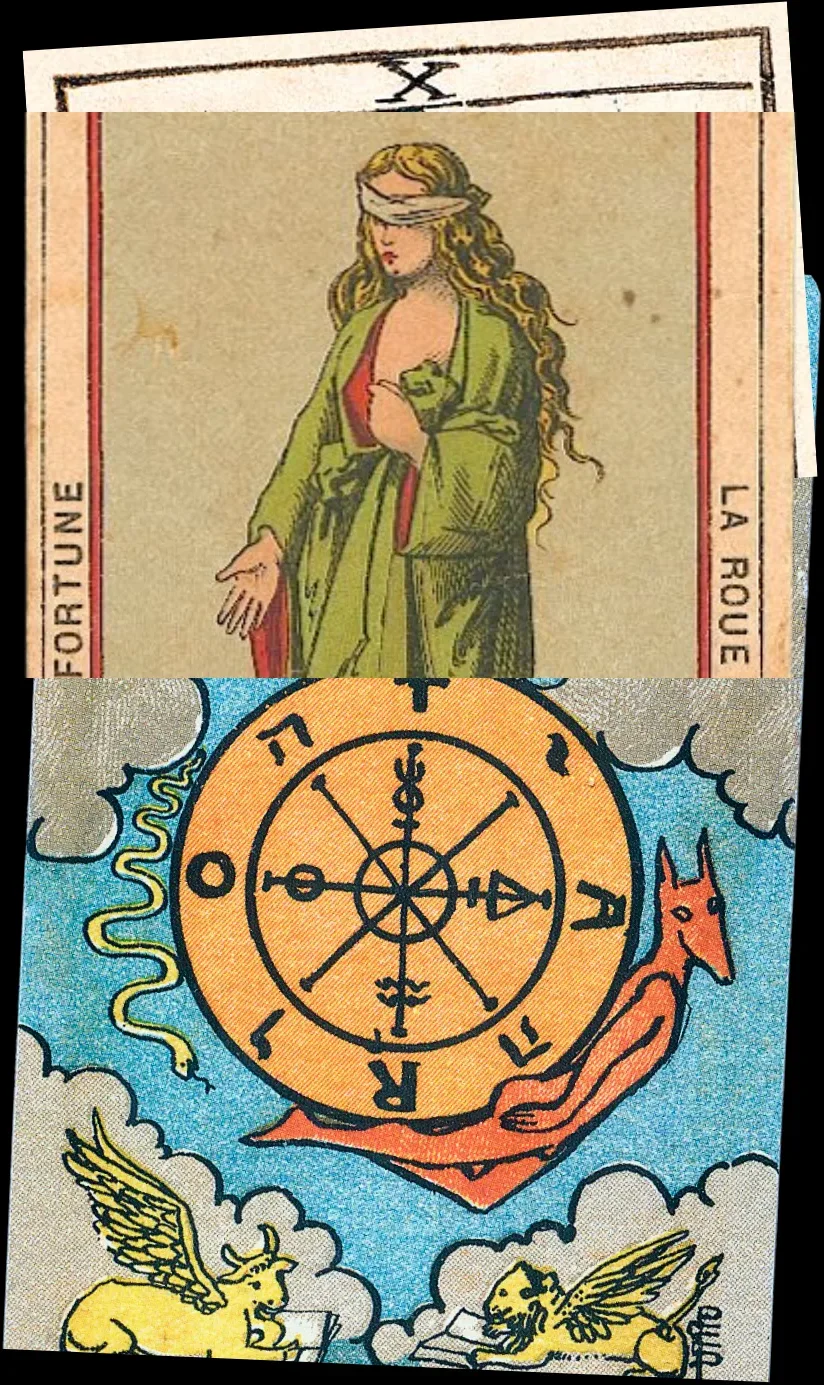
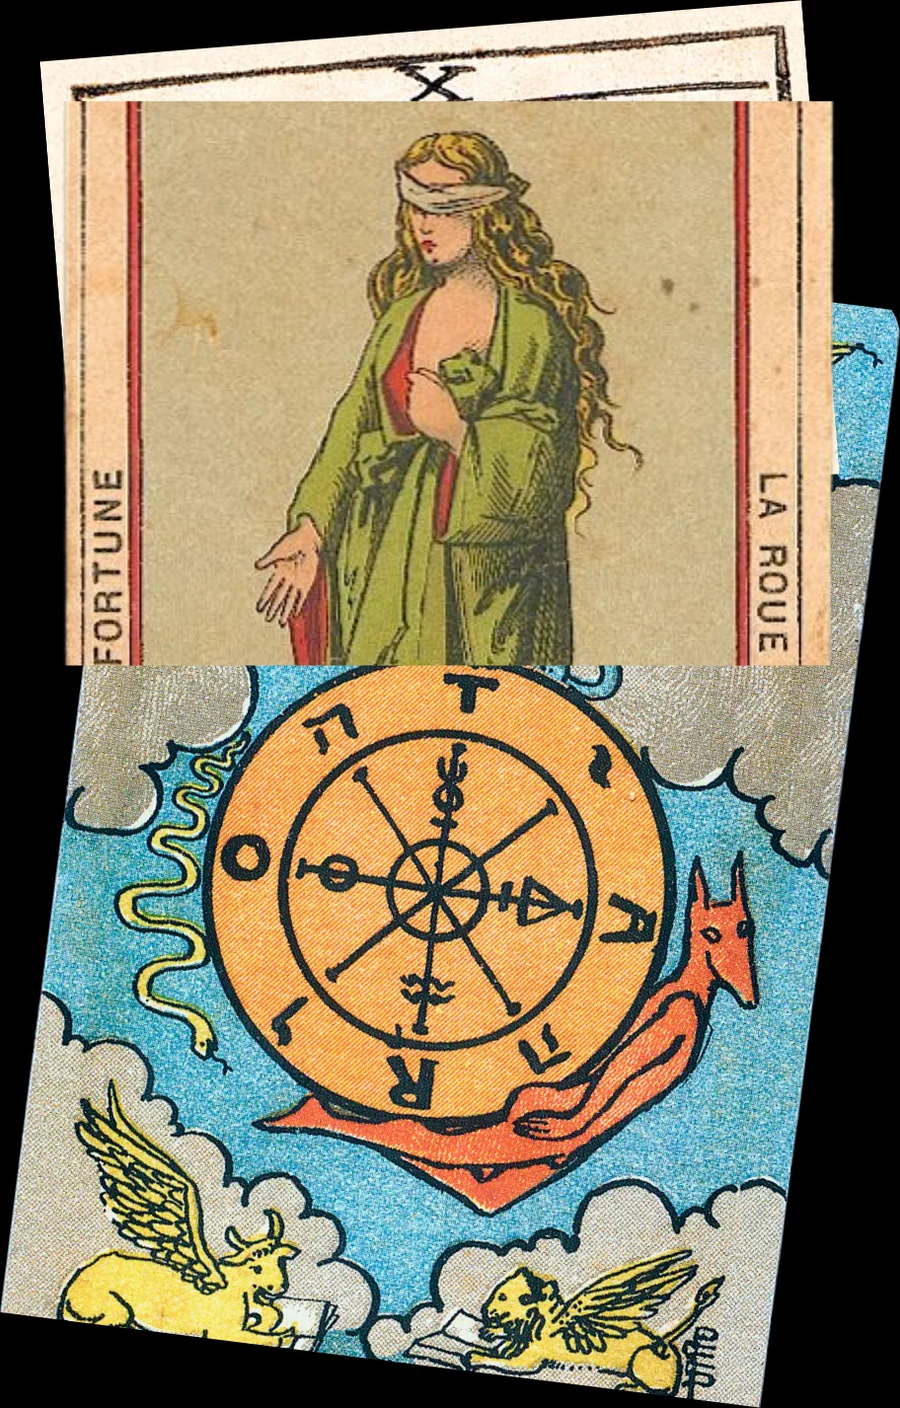
Anima los collages como en la web original de Canva
Cada collage de las lecturas y de las cabeceras de los oráculos lunar y
solar se monta con sus tiras originales de Canva por separado, y cada
tira se balancea a su ritmo (giro de unos -4° a +7°, ciclos de ~2 s),
solo mientras está en pantalla y nunca con «reducir movimiento». Las
imágenes fijas de cada collage se regeneran con esas mismas tiras.

Claude-Session: https://claude.ai/code/session_01H86b986Se2tvQNAebSePnT

diff --git a/src/content/collages.ts b/src/content/collages.ts
@@ -1,0 +1,93 @@
+/**
+ * Collages de la web original de Canva, separados en sus tiras (capas transparentes).
+ * Posiciones en % del collage. El balanceo de cada tira imita el de Canva: giro de unos
+ * -4° a +7°, desplazamiento de ~2 % y ciclos de ~2 s, cada tira a su propio ritmo.
+ * Generado a partir de encartada.my.canva.site.
+ */
+export type Capa = { src: string; x: number; y: number; w: number; h: number; giro: number; contragiro: number; dx: number; dy: number; duracion: number; retraso: number };
+export type Collage = { ancho: number; alto: number; capas: Capa[] };
+
+export const collages: Record<string, Collage> = {
+  'el-nudo': { ancho: 805, alto: 1460, capas: [
+    { src: '/img/collages/el-nudo/0.webp', x: 0.0, y: 0.0, w: 97.888, h: 53.082, giro: 6.54, contragiro: 3.59, dx: 1.48, dy: 1.66, duracion: 2.16, retraso: -0.67 },
+    { src: '/img/collages/el-nudo/1.webp', x: 2.609, y: 41.37, w: 91.801, h: 47.397, giro: -5.98, contragiro: -3.93, dx: 2.24, dy: 1.67, duracion: 1.98, retraso: -2.16 },
+    { src: '/img/collages/el-nudo/2.webp', x: 2.112, y: 59.863, w: 97.888, h: 40.137, giro: 5.95, contragiro: 2.66, dx: 1.29, dy: 2.02, duracion: 2.59, retraso: -2.05 },
+  ] },
+  'la-encrucijada': { ancho: 812, alto: 1330, capas: [
+    { src: '/img/collages/la-encrucijada/0.webp', x: 3.941, y: 53.684, w: 96.059, h: 46.316, giro: 6.14, contragiro: 4.72, dx: 1.53, dy: 1.94, duracion: 2.21, retraso: -1.57 },
+    { src: '/img/collages/la-encrucijada/1.webp', x: 0.0, y: 34.662, w: 95.936, h: 35.263, giro: -4.53, contragiro: -2.97, dx: 2.06, dy: 1.93, duracion: 1.91, retraso: -1.43 },
+    { src: '/img/collages/la-encrucijada/2.webp', x: 2.463, y: 0.0, w: 95.197, h: 48.872, giro: 6.56, contragiro: 2.86, dx: 1.24, dy: 2.01, duracion: 2.32, retraso: -2.09 },
+  ] },
+  'el-bien-morir': { ancho: 884, alto: 1384, capas: [
+    { src: '/img/collages/el-bien-morir/0.webp', x: 1.018, y: 0.0, w: 98.982, h: 71.026, giro: 6.46, contragiro: 2.71, dx: 2.38, dy: 1.51, duracion: 2.2, retraso: -1.85 },
+    { src: '/img/collages/el-bien-morir/1.webp', x: 0.0, y: 39.017, w: 94.231, h: 60.983, giro: -5.21, contragiro: -3.73, dx: 1.6, dy: 1.16, duracion: 2.09, retraso: -1.21 },
+    { src: '/img/collages/el-bien-morir/2.webp', x: 2.828, y: 40.39, w: 92.195, h: 35.477, giro: 5.26, contragiro: 3.02, dx: 1.58, dy: 1.55, duracion: 2.35, retraso: -2.03 },
+  ] },
+  'el-tropo': { ancho: 888, alto: 1388, capas: [
+    { src: '/img/collages/el-tropo/0.webp', x: 0.0, y: 0.0, w: 100.0, h: 89.625, giro: 5.63, contragiro: 2.66, dx: 2.26, dy: 1.39, duracion: 2.58, retraso: -0.77 },
+    { src: '/img/collages/el-tropo/1.webp', x: 8.108, y: 30.98, w: 86.599, h: 28.098, giro: -5.91, contragiro: -2.75, dx: 2.29, dy: 1.28, duracion: 2.3, retraso: -1.11 },
+    { src: '/img/collages/el-tropo/2.webp', x: 6.757, y: 77.882, w: 87.613, h: 22.118, giro: 5.52, contragiro: 2.92, dx: 2.26, dy: 1.12, duracion: 2.43, retraso: -2.25 },
+  ] },
+  'oraculo-lunar': { ancho: 818, alto: 1530, capas: [
+    { src: '/img/collages/oraculo-lunar/0.webp', x: 0.0, y: 65.621, w: 99.267, h: 34.379, giro: 4.88, contragiro: 4.38, dx: 1.75, dy: 1.52, duracion: 2.4, retraso: -1.4 },
+    { src: '/img/collages/oraculo-lunar/1.webp', x: 0.0, y: 0.0, w: 99.267, h: 36.013, giro: -6.87, contragiro: -3.23, dx: 1.61, dy: 1.89, duracion: 1.92, retraso: -1.94 },
+    { src: '/img/collages/oraculo-lunar/2.webp', x: 0.0, y: 27.451, w: 100.0, h: 41.634, giro: 4.52, contragiro: 4.07, dx: 1.92, dy: 1.14, duracion: 2.11, retraso: -1.82 },
+  ] },
+  'la-hipnosis': { ancho: 665, alto: 1075, capas: [
+    { src: '/img/collages/la-hipnosis/0.webp', x: 3.759, y: 27.628, w: 91.579, h: 72.372, giro: 6.91, contragiro: 2.57, dx: 1.9, dy: 1.75, duracion: 2.12, retraso: -0.02 },
+    { src: '/img/collages/la-hipnosis/1.webp', x: 0.0, y: 0.0, w: 100.0, h: 54.14, giro: -6.9, contragiro: -2.72, dx: 1.47, dy: 2.19, duracion: 2.51, retraso: -1.46 },
+    { src: '/img/collages/la-hipnosis/2.webp', x: 4.812, y: 3.07, w: 91.429, h: 28.0, giro: 5.93, contragiro: 3.77, dx: 1.9, dy: 1.67, duracion: 1.92, retraso: -0.01 },
+  ] },
+  'el-despertar': { ancho: 642, alto: 1059, capas: [
+    { src: '/img/collages/el-despertar/0.webp', x: 0.0, y: 61.851, w: 100.0, h: 38.149, giro: 6.22, contragiro: 4.41, dx: 2.07, dy: 1.6, duracion: 2.56, retraso: -2.39 },
+    { src: '/img/collages/el-despertar/1.webp', x: 4.829, y: 0.0, w: 94.86, h: 43.154, giro: -6.25, contragiro: -4.43, dx: 2.31, dy: 1.77, duracion: 1.91, retraso: -0.55 },
+    { src: '/img/collages/el-despertar/2.webp', x: 3.894, y: 33.428, w: 94.86, h: 31.822, giro: 4.79, contragiro: 3.21, dx: 1.97, dy: 1.51, duracion: 2.53, retraso: -0.86 },
+  ] },
+  'oraculo-solar': { ancho: 814, alto: 1536, capas: [
+    { src: '/img/collages/oraculo-solar/0.webp', x: 0.0, y: 7.878, w: 100.0, h: 92.122, giro: 4.82, contragiro: 3.79, dx: 2.27, dy: 2.13, duracion: 2.35, retraso: -1.46 },
+    { src: '/img/collages/oraculo-solar/1.webp', x: 0.0, y: 1.302, w: 100.0, h: 81.641, giro: -5.92, contragiro: -4.55, dx: 2.17, dy: 1.2, duracion: 2.5, retraso: -1.48 },
+    { src: '/img/collages/oraculo-solar/2.webp', x: 0.369, y: 0.0, w: 99.386, h: 43.75, giro: 5.78, contragiro: 3.68, dx: 1.29, dy: 1.43, duracion: 2.13, retraso: -1.41 },
+  ] },
+  'tu-cancion-natal': { ancho: 783, alto: 1299, capas: [
+    { src: '/img/collages/tu-cancion-natal/0.webp', x: 0.0, y: 0.0, w: 97.446, h: 80.523, giro: 5.03, contragiro: 4.13, dx: 1.91, dy: 1.25, duracion: 2.2, retraso: -1.04 },
+    { src: '/img/collages/tu-cancion-natal/1.webp', x: 2.299, y: 26.02, w: 97.701, h: 73.98, giro: -6.18, contragiro: -2.92, dx: 1.55, dy: 1.9, duracion: 2.22, retraso: -0.53 },
+    { src: '/img/collages/tu-cancion-natal/2.webp', x: 4.215, y: 57.429, w: 91.699, h: 42.571, giro: 6.43, contragiro: 4.59, dx: 2.22, dy: 1.28, duracion: 2.19, retraso: -0.98 },
+  ] },
+  'sesion-de-improvisacion': { ancho: 754, alto: 1288, capas: [
+    { src: '/img/collages/sesion-de-improvisacion/0.webp', x: 0.0, y: 4.736, w: 100.0, h: 57.919, giro: 5.09, contragiro: 3.71, dx: 2.02, dy: 1.44, duracion: 2.22, retraso: -0.86 },
+    { src: '/img/collages/sesion-de-improvisacion/1.webp', x: 2.653, y: 59.239, w: 92.042, h: 40.761, giro: -5.8, contragiro: -3.98, dx: 1.74, dy: 1.37, duracion: 2.58, retraso: -0.38 },
+    { src: '/img/collages/sesion-de-improvisacion/2.webp', x: 2.785, y: 0.0, w: 92.042, h: 17.158, giro: 6.57, contragiro: 2.93, dx: 1.26, dy: 1.12, duracion: 1.95, retraso: -1.01 },
+  ] },
+  'la-danza-de-las-luminarias': { ancho: 775, alto: 1341, capas: [
+    { src: '/img/collages/la-danza-de-las-luminarias/0.webp', x: 0.0, y: 5.966, w: 99.355, h: 82.998, giro: 5.67, contragiro: 2.23, dx: 1.67, dy: 1.88, duracion: 1.9, retraso: -1.48 },
+    { src: '/img/collages/la-danza-de-las-luminarias/1.webp', x: 4.516, y: 0.0, w: 95.484, h: 40.194, giro: -5.21, contragiro: -4.23, dx: 1.4, dy: 1.29, duracion: 1.99, retraso: -0.4 },
+    { src: '/img/collages/la-danza-de-las-luminarias/2.webp', x: 3.226, y: 63.908, w: 96.774, h: 36.092, giro: 6.94, contragiro: 4.44, dx: 2.13, dy: 2.19, duracion: 2.45, retraso: -0.85 },
+  ] },
+  'la-consonancia': { ancho: 766, alto: 1326, capas: [
+    { src: '/img/collages/la-consonancia/0.webp', x: 0.0, y: 0.0, w: 100.0, h: 40.121, giro: 4.64, contragiro: 4.01, dx: 1.75, dy: 1.96, duracion: 2.18, retraso: -0.35 },
+    { src: '/img/collages/la-consonancia/1.webp', x: 2.48, y: 37.406, w: 94.909, h: 44.57, giro: -4.57, contragiro: -4.23, dx: 1.39, dy: 1.46, duracion: 2.51, retraso: -0.07 },
+    { src: '/img/collages/la-consonancia/2.webp', x: 2.219, y: 82.881, w: 95.3, h: 17.119, giro: 4.56, contragiro: 3.36, dx: 2.02, dy: 1.54, duracion: 2.2, retraso: -0.44 },
+  ] },
+  'la-disonancia': { ancho: 778, alto: 1271, capas: [
+    { src: '/img/collages/la-disonancia/0.webp', x: 0.0, y: 25.02, w: 100.0, h: 74.98, giro: 5.41, contragiro: 2.48, dx: 2.34, dy: 1.2, duracion: 2.04, retraso: -1.45 },
+    { src: '/img/collages/la-disonancia/1.webp', x: 1.671, y: 0.0, w: 90.231, h: 51.22, giro: -7.16, contragiro: -2.86, dx: 1.24, dy: 1.08, duracion: 2.36, retraso: -1.61 },
+  ] },
+  'la-mariposa': { ancho: 844, alto: 1388, capas: [
+    { src: '/img/collages/la-mariposa/0.webp', x: 0.0, y: 0.0, w: 96.209, h: 46.686, giro: 6.87, contragiro: 4.29, dx: 1.31, dy: 1.08, duracion: 1.94, retraso: -1.99 },
+    { src: '/img/collages/la-mariposa/1.webp', x: 2.488, y: 19.741, w: 93.72, h: 50.288, giro: -4.91, contragiro: -2.58, dx: 1.81, dy: 2.14, duracion: 2.39, retraso: -0.52 },
+    { src: '/img/collages/la-mariposa/2.webp', x: 2.014, y: 45.245, w: 97.986, h: 54.755, giro: 6.33, contragiro: 3.2, dx: 1.78, dy: 1.78, duracion: 2.25, retraso: -1.06 },
+  ] },
+  'la-tertulia': { ancho: 824, alto: 1355, capas: [
+    { src: '/img/collages/la-tertulia/0.webp', x: 2.063, y: 0.0, w: 95.631, h: 41.993, giro: 5.6, contragiro: 2.56, dx: 1.26, dy: 1.16, duracion: 2.45, retraso: -1.22 },
+    { src: '/img/collages/la-tertulia/1.webp', x: 1.092, y: 47.823, w: 98.908, h: 52.177, giro: -6.84, contragiro: -3.06, dx: 1.43, dy: 1.22, duracion: 2.29, retraso: -0.64 },
+    { src: '/img/collages/la-tertulia/2.webp', x: 0.0, y: 24.133, w: 99.029, h: 38.229, giro: 5.53, contragiro: 3.75, dx: 2.39, dy: 2.16, duracion: 2.52, retraso: -0.38 },
+  ] },
+  'la-brujula': { ancho: 900, alto: 1408, capas: [
+    { src: '/img/collages/la-brujula/0.webp', x: 0.0, y: 15.417, w: 100.0, h: 84.583, giro: 4.89, contragiro: 4.27, dx: 1.22, dy: 1.35, duracion: 2.15, retraso: -1.43 },
+    { src: '/img/collages/la-brujula/1.webp', x: 4.496, y: 0.0, w: 88.925, h: 38.052, giro: -5.34, contragiro: -2.97, dx: 2.05, dy: 1.24, duracion: 2.46, retraso: -0.32 },
+    { src: '/img/collages/la-brujula/2.webp', x: 6.908, y: 7.148, w: 85.855, h: 40.154, giro: 5.53, contragiro: 4.04, dx: 2.34, dy: 2.17, duracion: 2.49, retraso: -2.34 },
+  ] },
+};
+
+/** ¿Hay collage animado con ese nombre? */
+export const tieneCollage = (nombre: string) => nombre in collages;

diff --git a/src/content/imagenes.ts b/src/content/imagenes.ts
@@ -11,25 +11,25 @@ export const tamanos: Record<string, [number, number]> = {
   '/img/inicio/mosaico.webp': [1800, 1009],
   '/img/inicio/oraculo.webp': [396, 1064],
   '/img/inicio/xxi.webp': [432, 1536],
-  '/img/lecturas/el-bien-morir.webp': [881, 1397],
-  '/img/lecturas/el-despertar.webp': [639, 1063],
-  '/img/lecturas/el-nudo.webp': [790, 1448],
-  '/img/lecturas/el-tropo.webp': [845, 1390],
-  '/img/lecturas/la-brujula.webp': [824, 1385],
-  '/img/lecturas/la-consonancia.webp': [766, 1306],
-  '/img/lecturas/la-danza-de-las-luminarias.webp': [641, 1095],
-  '/img/lecturas/la-disonancia.webp': [768, 1254],
-  '/img/lecturas/la-encrucijada.webp': [818, 1375],
-  '/img/lecturas/la-hipnosis.webp': [634, 1054],
-  '/img/lecturas/la-mariposa.webp': [826, 1400],
-  '/img/lecturas/la-tertulia.webp': [823, 1353],
-  '/img/lecturas/sesion-de-improvisacion.webp': [753, 1228],
-  '/img/lecturas/tu-cancion-natal.webp': [785, 1308],
+  '/img/lecturas/el-bien-morir.webp': [884, 1384],
+  '/img/lecturas/el-despertar.webp': [642, 1059],
+  '/img/lecturas/el-nudo.webp': [805, 1460],
+  '/img/lecturas/el-tropo.webp': [888, 1388],
+  '/img/lecturas/la-brujula.webp': [900, 1408],
+  '/img/lecturas/la-consonancia.webp': [766, 1326],
+  '/img/lecturas/la-danza-de-las-luminarias.webp': [775, 1341],
+  '/img/lecturas/la-disonancia.webp': [778, 1271],
+  '/img/lecturas/la-encrucijada.webp': [812, 1330],
+  '/img/lecturas/la-hipnosis.webp': [665, 1075],
+  '/img/lecturas/la-mariposa.webp': [844, 1388],
+  '/img/lecturas/la-tertulia.webp': [824, 1355],
+  '/img/lecturas/sesion-de-improvisacion.webp': [754, 1288],
+  '/img/lecturas/tu-cancion-natal.webp': [783, 1299],
   '/img/oraculos/hub-lunar.webp': [503, 838],
   '/img/oraculos/hub-solar.webp': [503, 849],
   '/img/oraculos/hub-terrestre.webp': [518, 856],
-  '/img/oraculos/oraculo-lunar.webp': [818, 1536],
-  '/img/oraculos/oraculo-solar.webp': [817, 1542],
+  '/img/oraculos/oraculo-lunar.webp': [818, 1530],
+  '/img/oraculos/oraculo-solar.webp': [814, 1536],
   '/img/oraculos/oraculo-terrestre.webp': [808, 1518],
   '/img/oraculos/tarot-de-temporada.webp': [590, 920],
   '/img/oraculos/tarot-grupal.webp': [587, 920],

diff --git a/src/components/CollageAnimado.tsx b/src/components/CollageAnimado.tsx
@@ -1,0 +1,44 @@
+'use client';
+
+import Image from 'next/image';
+import { type CSSProperties, useEffect, useRef, useState } from 'react';
+import { collages } from '@/content/collages';
+
+/**
+ * Collage de Canva montado con sus tiras por separado. Cada tira se balancea a su ritmo,
+ * como en la web original, y solo mientras el collage está en pantalla.
+ * Sin movimiento si la persona tiene activado «reducir movimiento».
+ */
+export function CollageAnimado({ nombre, alt, ancho = 420, priority = false }: { nombre: string; alt: string; ancho?: number; priority?: boolean }) {
+  const c = collages[nombre];
+  const ref = useRef<HTMLDivElement>(null);
+  const [enVista, setEnVista] = useState(false);
+
+  useEffect(() => {
+    const el = ref.current;
+    if (!el) return;
+    const io = new IntersectionObserver(([e]) => setEnVista(e.isIntersecting), { rootMargin: '80px' });
+    io.observe(el);
+    return () => io.disconnect();
+  }, []);
+
+  if (!c) return null;
+  return (
+    <div ref={ref} className={`collage${enVista ? ' en-vista' : ''}`} style={{ aspectRatio: `${c.ancho} / ${c.alto}` }} role="img" aria-label={alt}>
+      {c.capas.map((k, i) => (
+        <div
+          key={k.src}
+          className="collage-capa"
+          style={{
+            left: `${k.x}%`, top: `${k.y}%`, width: `${k.w}%`, height: `${k.h}%`, zIndex: i,
+            '--giro': `${k.giro}deg`, '--contragiro': `${k.contragiro}deg`, '--dx': `${k.dx}%`, '--dy': `${k.dy}%`,
+            '--duracion': `${k.duracion}s`, '--retraso': `${k.retraso}s`,
+          } as CSSProperties}
+        >
+          <Image src={k.src} alt="" fill priority={priority} sizes={`(max-width: 760px) ${Math.ceil((k.w / 100) * 300)}px, ${Math.ceil((k.w / 100) * ancho)}px`} />
+        </div>
+      ))}
+    </div>
+  );
+}
+

diff --git a/src/components/CabeceraOraculo.tsx b/src/components/CabeceraOraculo.tsx
@@ -2,6 +2,8 @@ import type { CSSProperties } from 'react';
 import Image from 'next/image';
 import { imagen } from '@/content/imagenes';
 import { oraculos, type Oraculo } from '@/content/oraculos';
+import { tieneCollage } from '@/content/collages';
+import { CollageAnimado } from './CollageAnimado';
 import { Texto } from './Texto';
 
 /** Cabecera de cada oráculo: collage a la izquierda, título y texto a la derecha (como en Canva). */
@@ -10,7 +12,11 @@ export function CabeceraOraculo({ oraculo, intro }: { oraculo: Oraculo; intro: s
   return (
     <section className="cabecera-oraculo" style={{ '--acento': o.color } as CSSProperties}>
       <div className="cabecera-oraculo-imagen">
-        <Image {...imagen(o.collage)} alt={`Collage del ${o.titulo}`} priority sizes="(max-width: 760px) 260px, 360px" />
+        {tieneCollage(`oraculo-${oraculo}`) ? (
+          <CollageAnimado nombre={`oraculo-${oraculo}`} alt={`Collage del ${o.titulo}`} ancho={360} priority />
+        ) : (
+          <Image {...imagen(o.collage)} alt={`Collage del ${o.titulo}`} priority sizes="(max-width: 760px) 260px, 360px" />
+        )}
       </div>
       <div>
         <h1 className={`${o.fuente} acento`}>{o.titulo}</h1>

diff --git a/src/components/BloqueLectura.tsx b/src/components/BloqueLectura.tsx
@@ -6,6 +6,8 @@ import { imagen } from '@/content/imagenes';
 import { oraculos } from '@/content/oraculos';
 import type { Servicio } from '@/content/tipos';
 import { lineaPrecios } from '@/lib/precios';
+import { tieneCollage } from '@/content/collages';
+import { CollageAnimado } from './CollageAnimado';
 import { formatear, Texto } from './Texto';
 
 export function modalidadTexto(s: Servicio) {
@@ -51,7 +53,11 @@ export function BloqueLectura({ servicio: s }: { servicio: Servicio }) {
       </div>
       {s.imagen && (
         <div className="lectura-imagen">
-          <Image {...imagen(s.imagen)} alt={`Collage de cartas de ${s.nombre}`} sizes="(max-width: 760px) 300px, 420px" />
+          {tieneCollage(s.slug) ? (
+            <CollageAnimado nombre={s.slug} alt={`Collage de cartas de ${s.nombre}`} />
+          ) : (
+            <Image {...imagen(s.imagen)} alt={`Collage de cartas de ${s.nombre}`} sizes="(max-width: 760px) 300px, 420px" />
+          )}
         </div>
       )}
     </section>

diff --git a/src/app/globals.css b/src/app/globals.css
@@ -265,3 +265,19 @@ fieldset.campo legend { font-size: 1rem; color: var(--texto-suave); margin-botto
 .opciones-columna .opcion { text-align: left; }
 .zona { margin: 0 0 18px; }
 .zona .nota { margin: 0 0 6px; }
+
+/* ─── Collages animados (tiras que se balancean, como en Canva) ─── */
+.collage { position: relative; width: 100%; }
+.collage-capa {
+  position: absolute;
+  will-change: transform;
+  animation: balanceo var(--duracion) ease-in-out var(--retraso) infinite;
+  animation-play-state: paused;
+}
+.collage.en-vista .collage-capa { animation-play-state: running; }
+@keyframes balanceo {
+  0%, 100% { transform: translate(0, 0) rotate(0deg); }
+  30% { transform: translate(var(--dx), calc(var(--dy) * -1)) rotate(var(--giro)); }
+  65% { transform: translate(calc(var(--dx) * -0.6), var(--dy)) rotate(calc(var(--contragiro) * -1)); }
+}
+@media (prefers-reduced-motion: reduce) { .collage-capa { animation: none; } }

diff --git a/README.md b/README.md
@@ -19,7 +19,7 @@ Web de **en_cartada** (tarot, sueños y astrología), migrada desde Canva a **Ne
 | Horario, días libres, antelación, descansos | `src/config/agenda.ts` |
 | WhatsApp, Instagram, email, menú | `src/config/sitio.ts` |
 | Colores y tipografía | `src/app/globals.css` |
-| Imágenes | `public/img/…` |
+| Imágenes | `public/img/…` (los collages animados, separados en tiras, en `public/img/collages/` y `src/content/collages.ts`) |
 
 Formato de los textos: `**negrita**`, `_cursiva_`, `==color de la lectura==`. Cada elemento de la lista es un párrafo.
 
